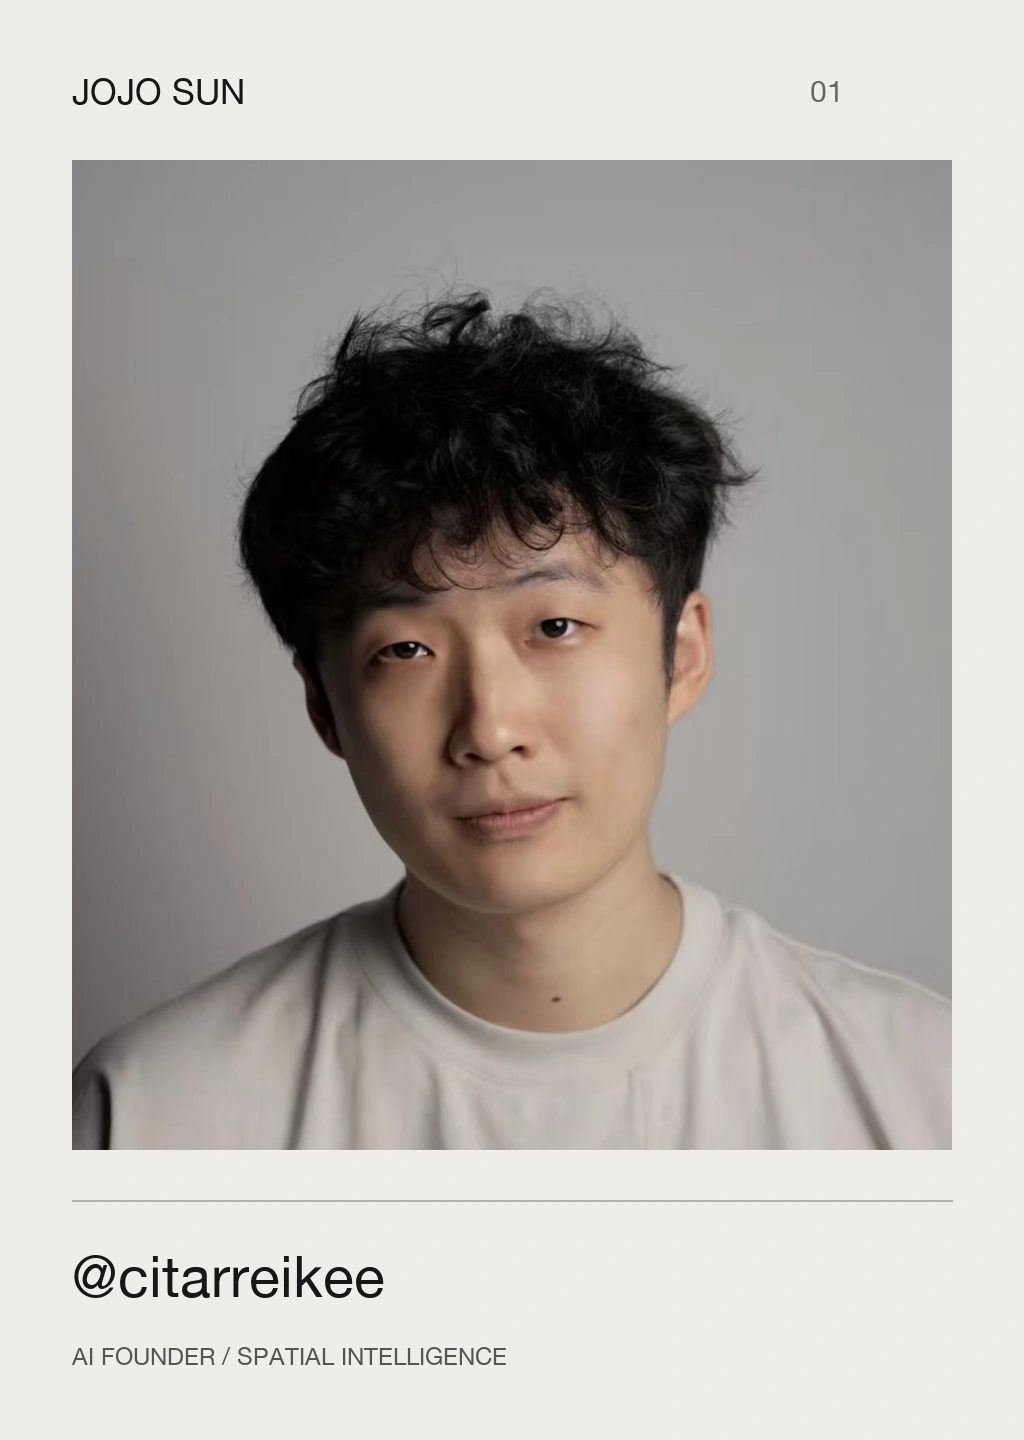
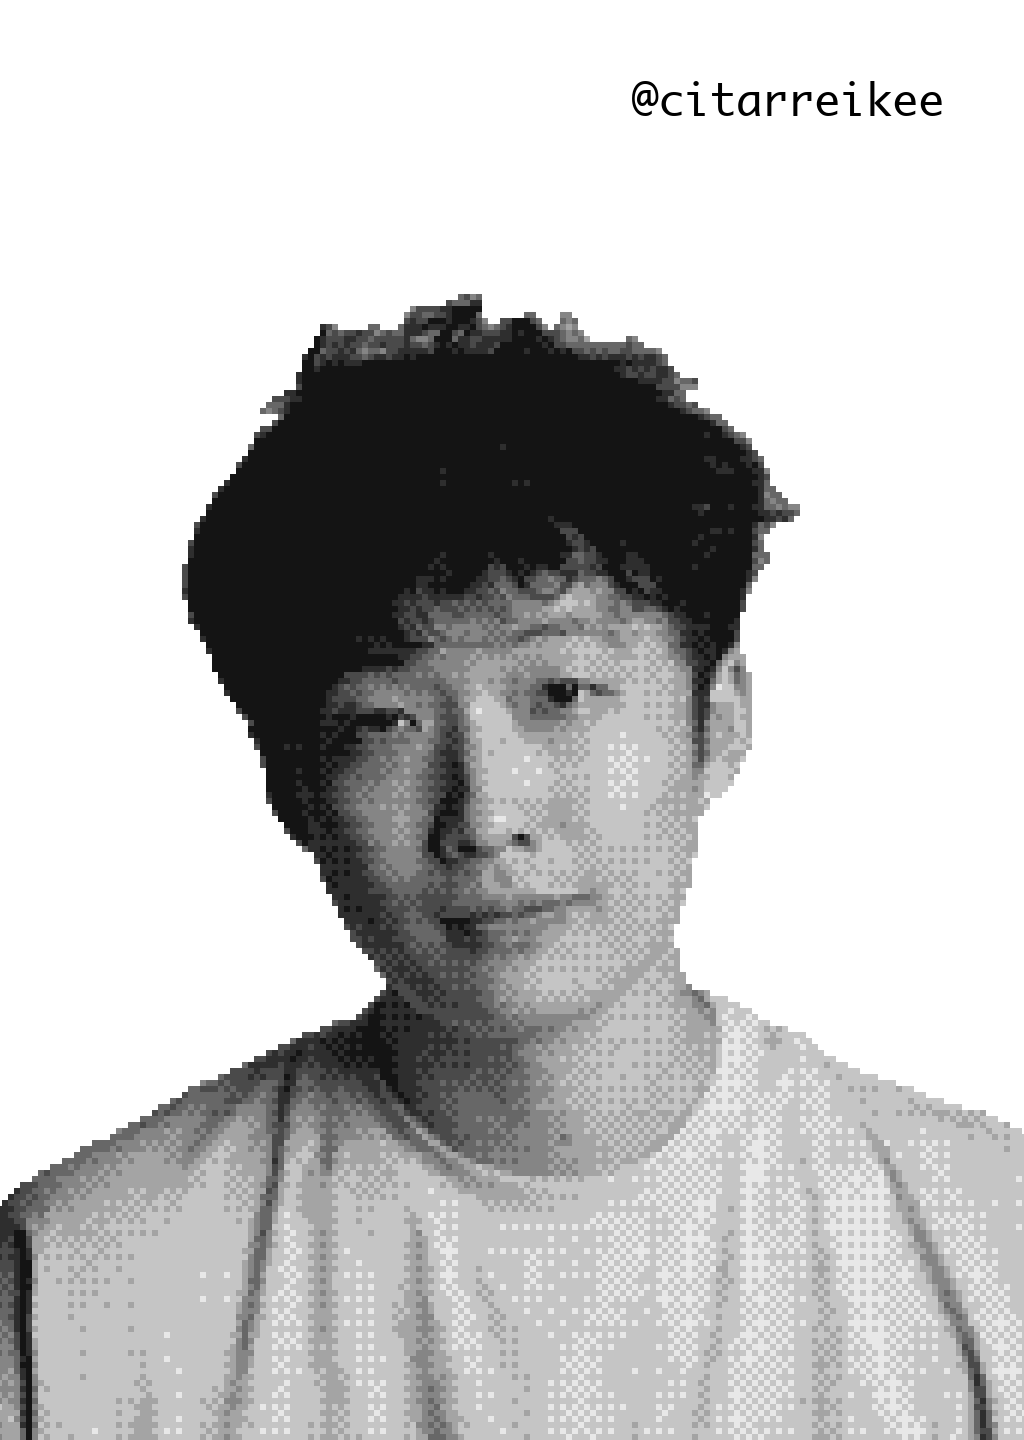
Match Lanyard example layout with unbranded pixel portrait

diff --git a/src/App.tsx b/src/App.tsx
@@ -442,16 +442,15 @@ function Story() {
       id="story"
       className="story-section relative min-h-[100dvh] text-cream"
     >
-      <div className="story-lanyard" role="img" aria-label="Jojo photo card, @citarreikee. Drag to swing; click to flip.">
+      <div className="story-lanyard" role="img" aria-label="Jojo portrait card, @citarreikee. Drag to swing; click to flip.">
         {showLanyard && (
           <Suspense fallback={<div className="h-full w-full" aria-hidden="true" />}>
             <Lanyard
               frontImage={publicPath('/assets/lanyard/jojo-front.webp')}
               backImage={publicPath('/assets/lanyard/jojo-back.webp')}
-              strapImage={publicPath('/assets/lanyard/jojo-band.png')}
               size={0.6}
-              strapLength={0.4}
-              breeze={0.25}
+              strapLength={0.5}
+              breeze={0.5}
             />
           </Suspense>
         )}

diff --git a/src/components/Lanyard.d.ts b/src/components/Lanyard.d.ts
@@ -4,7 +4,7 @@ export type LanyardProps = {
  imageFit?: 'cover' | 'contain'; cardColor?: string;
  orientation?: 'portrait' | 'landscape'; finish?: 'glossy' | 'matte' | 'holographic' | 'metallic';
  cornerRadius?: number; size?: number; anchor?: 'left' | 'center' | 'right';
- strapLength?: number; strapColor?: string; strapWidth?: number; metal?: 'silver' | 'gold' | 'black';
+ strapLength?: number; strapColor?: string; strapWidth?: number; metal?: 'silver' | 'gold' | 'graphite';
  gravity?: number; damping?: number; elasticity?: number; breeze?: number;
  interactive?: boolean; intro?: boolean; className?: string; style?: CSSProperties;
 }
